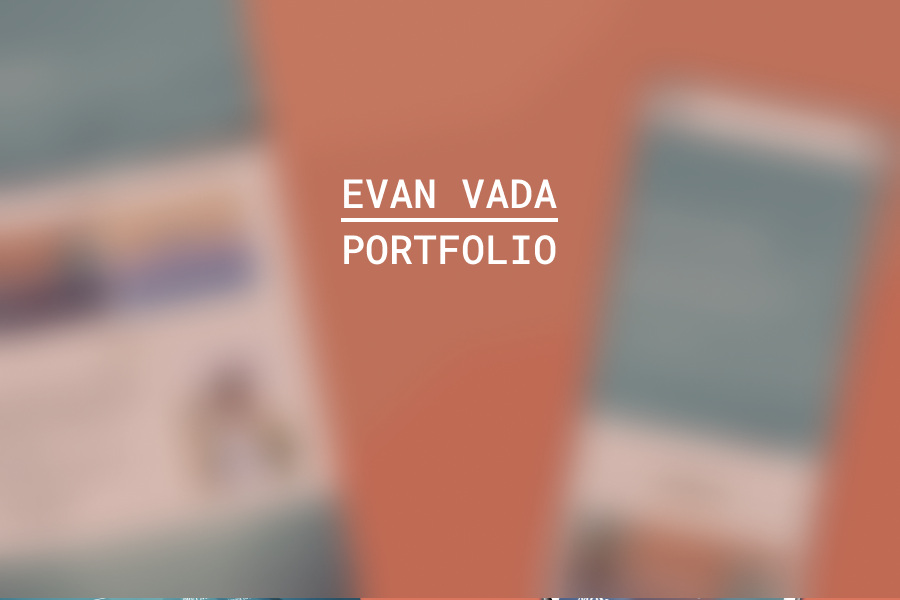
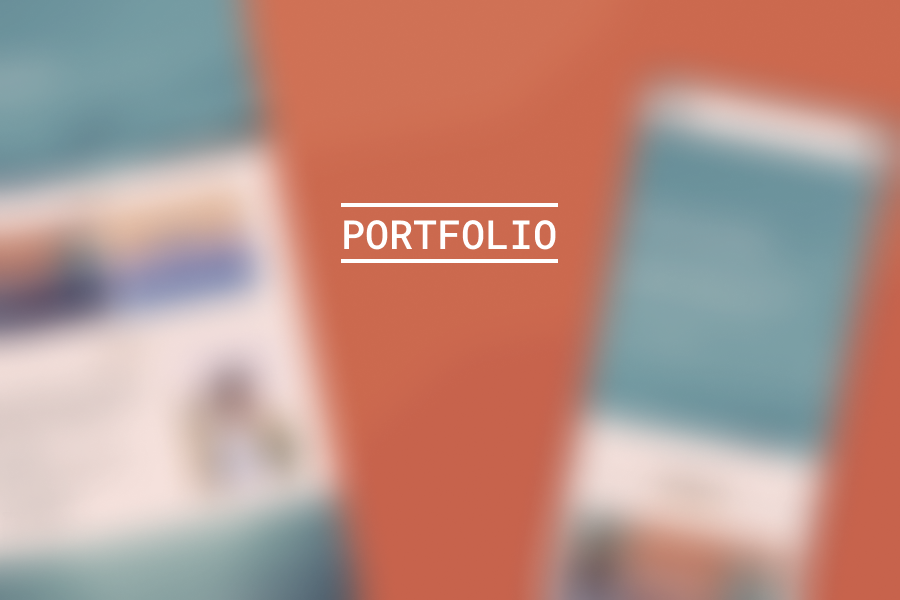
changed header & hero after Pfeedback

diff --git a/portfolio.html b/portfolio.html
@@ -17,9 +17,11 @@
 	<link rel="stylesheet" href="style/components/title-decor.css">
 
 	<link rel="stylesheet" href="style/layouts/header.css">
-	<link rel="stylesheet" href="style/layouts/portfolio/hero.css">
+	<link rel="stylesheet" href="style/layouts/hero.css">
 	<link rel="stylesheet" href="style/layouts/showcase.css">
 	<link rel="stylesheet" href="style/layouts/footer.css">
+	
+	<link rel="stylesheet" href="style/portfolio.css">
 
 	<link rel="icon" href="favicon.png" type="image/png">
 	<title>Portfolio Stefan</title>
@@ -38,9 +40,6 @@
 		<a href="index.html" class="header__element"><div class="header__logo">EVAN<br>VADA</div></a>
 		<div class="header__element header__burger"><div class="burger auto-color icon"></div></div>
 		<nav class="header__nav">
-			<a href="index.html#portfolio" class="header__element"><span>PORTFOLIO</span></a>
-			<a href="index.html#about" class="header__element"><span>À_PROPOS</span></a>
-			<a href="index.html#contact" class="header__element"><span>CONTACT</span></a>
 			<div class="header__element" onclick="toggleTheme()"><div class="darklight auto-color icon"></div></div>
 		</nav>
 	</header>
@@ -53,18 +52,14 @@
 			<div class="mobile-menu__separator"></div>
 			<a href="index.html#contact" class="mobile-menu__element"><div class="mail auto-color icon"></div><span>> CONTACT</span><span>></span></a>
 			<div class="mobile-menu__separator"></div>
-			<a href="portfolio.html" class="mobile-menu__element"><div></div><span>> PROJET 1</span><span>></span></a>
-			<div class="mobile-menu__separator"></div>
-			<a href="englishtango.html" class="mobile-menu__element"><div></div><span>> PROJET 2</span><span>></span></a>
-			<div class="mobile-menu__separator"></div>
 		</nav>
 		<nav class="mobile-menu__bottom-nav">
 			<div class="mobile-menu__separator"></div>
 			<div class="mobile-menu__bottom-nav-nav">
 				<div class="mobile-menu__bottom-nav-nav-nav">
+					<a href="mailto:evanvadapro@gmail.com" target="_blank" class="mail auto-color icon"></a>
 					<a href="https://www.linkedin.com/in/evan-vada-12B30A27A" target="_blank" class="linkedin auto-color icon"></a>
 					<a href="https://www.github.com/evanvada" target="_blank" class="github auto-color icon"></a>
-					<a href="mailto:evanvadapro@gmail.com" target="_blank" class="mail auto-color icon"></a>
 				</div>
 				<div class="mobile-menu__bottom-nav-nav-nav">
 					<div class="darklight auto-color icon" onclick="toggleTheme()"></div>
@@ -75,9 +70,6 @@
 
 	<section class="hero dither-bottom" id="hero">
 		<div class="hero__bg"></div>
-		<div class="hero__phone"></div>
-		<div class="hero__desktop"></div>
-		<div class="hero__gradient"></div>
 		<div class="hero__overlay">
 			<h2>ÉTUDE DE CAS</h2>
 			<h1>MON PORTFOLIO</h1>

diff --git a/englishtango.html b/englishtango.html
@@ -17,9 +17,11 @@
 	<link rel="stylesheet" href="style/components/title-decor.css">
 
 	<link rel="stylesheet" href="style/layouts/header.css">
-	<link rel="stylesheet" href="style/layouts/englishtango/hero.css">
+	<link rel="stylesheet" href="style/layouts/hero.css">
 	<link rel="stylesheet" href="style/layouts/showcase.css">
 	<link rel="stylesheet" href="style/layouts/footer.css">
+
+	<link rel="stylesheet" href="style/englishtango.css">
 
 	<link rel="icon" href="favicon.png" type="image/png">
 	<title>Portfolio Stefan</title>
@@ -38,9 +40,6 @@
 		<a href="index.html" class="header__element"><div class="header__logo">EVAN<br>VADA</div></a>
 		<div class="header__element header__burger"><div class="burger auto-color icon"></div></div>
 		<nav class="header__nav">
-			<a href="index.html#portfolio" class="header__element"><span>PORTFOLIO</span></a>
-			<a href="index.html#about" class="header__element"><span>À_PROPOS</span></a>
-			<a href="index.html#contact" class="header__element"><span>CONTACT</span></a>
 			<div class="header__element" onclick="toggleTheme()"><div class="darklight auto-color icon"></div></div>
 		</nav>
 	</header>
@@ -53,18 +52,14 @@
 			<div class="mobile-menu__separator"></div>
 			<a href="index.html#contact" class="mobile-menu__element"><div class="mail auto-color icon"></div><span>> CONTACT</span><span>></span></a>
 			<div class="mobile-menu__separator"></div>
-			<a href="portfolio.html" class="mobile-menu__element"><div></div><span>> PROJET 1</span><span>></span></a>
-			<div class="mobile-menu__separator"></div>
-			<a href="englishtango.html" class="mobile-menu__element"><div></div><span>> PROJET 2</span><span>></span></a>
-			<div class="mobile-menu__separator"></div>
 		</nav>
 		<nav class="mobile-menu__bottom-nav">
 			<div class="mobile-menu__separator"></div>
 			<div class="mobile-menu__bottom-nav-nav">
 				<div class="mobile-menu__bottom-nav-nav-nav">
+					<a href="mailto:evanvadapro@gmail.com" target="_blank" class="mail auto-color icon"></a>
 					<a href="https://www.linkedin.com/in/evan-vada-12B30A27A" target="_blank" class="linkedin auto-color icon"></a>
 					<a href="https://www.github.com/evanvada" target="_blank" class="github auto-color icon"></a>
-					<a href="mailto:evanvadapro@gmail.com" target="_blank" class="mail auto-color icon"></a>
 				</div>
 				<div class="mobile-menu__bottom-nav-nav-nav">
 					<div class="darklight auto-color icon" onclick="toggleTheme()"></div>
@@ -75,7 +70,6 @@
 
 	<section class="hero dither-bottom" id="hero">
 		<div class="hero__bg"></div>
-		<div class="hero__gradient"></div>
 		<div class="hero__overlay">
 			<h2>ÉTUDE DE CAS</h2>
 			<h1>ENGLISH TANGO</h1>

diff --git a/index.html b/index.html
@@ -17,11 +17,13 @@
 	<link rel="stylesheet" href="style/components/title-decor.css">
 
 	<link rel="stylesheet" href="style/layouts/header.css">
-	<link rel="stylesheet" href="style/layouts/index/hero.css">
+	<link rel="stylesheet" href="style/layouts/hero.css">
 	<link rel="stylesheet" href="style/layouts/index/portfolio.css">
 	<link rel="stylesheet" href="style/layouts/index/about.css">
 	<link rel="stylesheet" href="style/layouts/index/bottom-hero.css">
 	<link rel="stylesheet" href="style/layouts/footer.css">
+
+	<link rel="stylesheet" href="style/index.css">
 
 	<link rel="icon" href="favicon.png" type="image/png">
 	<title>Portfolio Stefan</title>
@@ -55,18 +57,14 @@
 			<div class="mobile-menu__separator"></div>
 			<a href="index.html#contact" class="mobile-menu__element"><div class="mail auto-color icon"></div><span>> CONTACT</span><span>></span></a>
 			<div class="mobile-menu__separator"></div>
-			<a href="portfolio.html" class="mobile-menu__element"><div></div><span>> PROJET 1</span><span>></span></a>
-			<div class="mobile-menu__separator"></div>
-			<a href="englishtango.html" class="mobile-menu__element"><div></div><span>> PROJET 2</span><span>></span></a>
-			<div class="mobile-menu__separator"></div>
 		</nav>
 		<nav class="mobile-menu__bottom-nav">
 			<div class="mobile-menu__separator"></div>
 			<div class="mobile-menu__bottom-nav-nav">
 				<div class="mobile-menu__bottom-nav-nav-nav">
+					<a href="mailto:evanvadapro@gmail.com" target="_blank" class="mail auto-color icon"></a>
 					<a href="https://www.linkedin.com/in/evan-vada-12B30A27A" target="_blank" class="linkedin auto-color icon"></a>
 					<a href="https://www.github.com/evanvada" target="_blank" class="github auto-color icon"></a>
-					<a href="mailto:evanvadapro@gmail.com" target="_blank" class="mail auto-color icon"></a>
 				</div>
 				<div class="mobile-menu__bottom-nav-nav-nav">
 					<div class="darklight auto-color icon" onclick="toggleTheme()"></div>

diff --git a/style/layouts/hero.css b/style/layouts/hero.css
@@ -3,9 +3,9 @@
 
 
 
-
+/* this element will have a heigt of 80% but will stretch if it is too small */
 .hero {
-	min-height: 70%;
+	min-height: 80%;
 	overflow: hidden;
 	position: relative;
 
@@ -20,7 +20,6 @@
 	width: 100%;
 	z-index: -10;
 
-	background-image: url("../../../media/hero4.png");
 	background-attachment: fixed;
 	background-position: center;
 	background-repeat: repeat;
@@ -34,15 +33,12 @@
 	padding-top: calc(64px + var(--header-height));
 	padding-bottom: 64px;
 
-	color: rgb(0,104,187);
-
 	display: flex;
 	flex-direction: column;
 	justify-content: center;
 }
 
 .hero__overlay > h1 {
-	border-bottom: solid var(--stroke-size) rgb(0,104,187);
 	padding-bottom: 6px;
 }
 
@@ -52,14 +48,22 @@
 	font-family: var(--font-content);
 }
 
-.hero__gradient {
-	position: absolute;
-	width: 100%;
-	height: 50%;
-	bottom: 0%;
-	z-index: -1;
+.hero__overlay > button {
+	margin-top: 24px;
+	width: min(400px, 100%);
+}
 
-	background: linear-gradient(rgba(246,28,204,0) 0%, rgba(246,28,204,0.2) 40%, rgba(0,76,176,1) 100%);
+.hero__overlay > button:hover {
+	background: rgba(90, 140, 157, 0.5);
+}
+
+
+
+
+@media (max-width: 500px) {
+	.hero {
+		min-height: 60%;
+	}
 }
 
 

diff --git a/style/layouts/index/portfolio.css b/style/layouts/index/portfolio.css
@@ -169,7 +169,7 @@
 }
 
 .portfolio-project__gradient.proj2 {
-	background: linear-gradient(rgba(246, 28, 204, 0) 30%, rgba(28, 50, 246, 0.4) 60%, rgba(0, 76, 176, 0.8) 100%);
+	background: linear-gradient(rgba(246, 28, 204, 0) 30%, rgba(28, 50, 246, 0.2) 60%, rgba(0, 76, 176, 0.8) 100%);
 }
 
 

diff --git a/style/englishtango.css b/style/englishtango.css
@@ -1,0 +1,13 @@
+
+.hero__bg {
+	background-image: url("../../../media/hero4.png");
+}
+
+.hero__overlay {
+	color: #004db1;
+}
+
+.hero__overlay > h1 {
+	border-bottom: solid var(--stroke-size) #004db1;
+}
+

diff --git a/style/portfolio.css b/style/portfolio.css
@@ -1,0 +1,15 @@
+
+.hero__bg {
+	background-image: url("../../../media/hero3.png");
+}
+
+.hero__overlay {
+	color: #fff;
+}
+
+.hero__overlay > h1 {
+	border-bottom: solid var(--stroke-size) white;
+}
+
+
+

diff --git a/style/index.css b/style/index.css
@@ -1,0 +1,13 @@
+
+.hero__bg {
+	background-image: url("../../../media/hero1.png");
+}
+
+.hero__overlay {
+	color: white;
+}
+
+.hero__overlay > h1 {
+	border-bottom: solid var(--stroke-size) white;
+}
+
